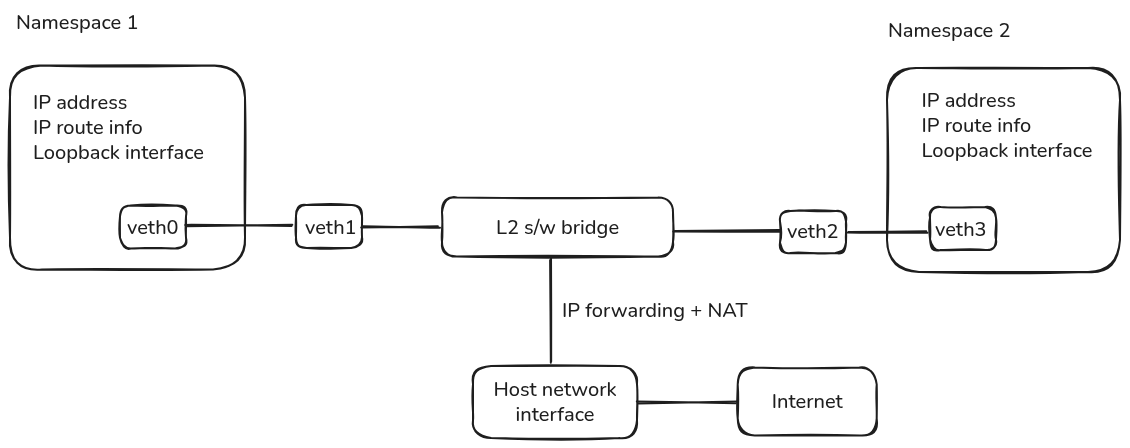
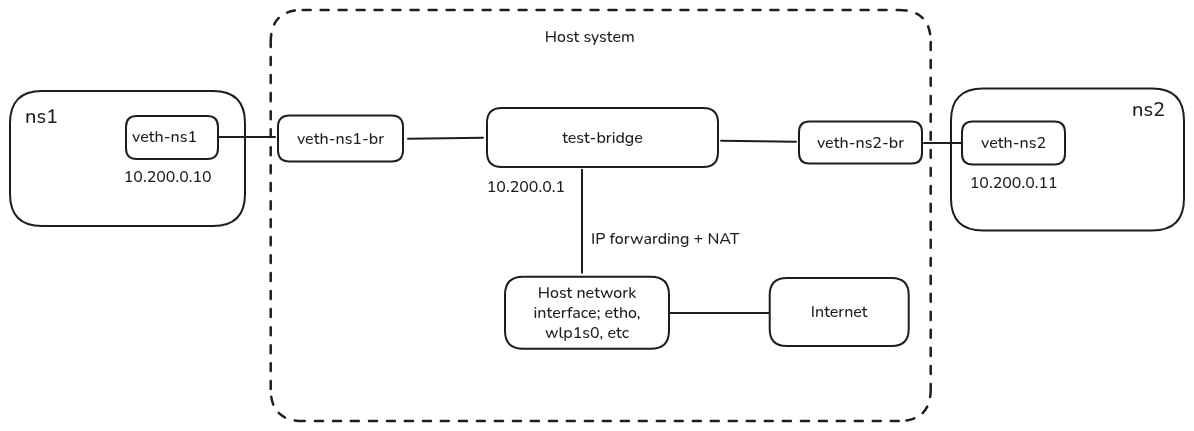
networking: final touches

diff --git a/README.md b/README.md
@@ -1,19 +1,21 @@
-## How Container Networking is Implemented in Linux
+# How Container Networking is Implemented in Linux
 
-The three building blocks:
+The four building blocks:
 
-- namespace: represents a single docker service
+- namespace: represents a single container's isolated network stack
 - virtual interface: represents a network link to a namespace
-- software bridge: an L2 software switch connecting two namespaces
+- software bridge: an L2 software switch connecting any number namespaces
 - routing and NAT: configures how the namespace accesses the internet through the host network interface
 
 The final architecture will look like this:
 
-![](/assets/network_namespaces.png)
+![](assets/network_namespaces.png)
 
-### Prerequisites
+## Prerequisites
 
-### Creating a namespace
+sudo, iproute2, iptables, conntrack, wget, a subnet your LAN doesn't use
+
+## Create a namespace
 
 List all namespaces on the machine:
 
@@ -27,13 +29,12 @@ Create 2 new namespaces
 ```bash
 
 sudo ip netns add ns1
-sudo ip netns add ns1
+sudo ip netns add ns2
 ```
 
-`ip netns exec` can be simplified into `ip -n`, going forward that is the syntax I will use.<br>
-Use the command to list namespaces to confirm they have been created.
+`ip netns exec` is too long to type every time. Going forward I will simplify it into `ip -n`. Another alternative is to start a bash shell inside the namespace with `ip netns exec ns1 bash`, same for ns2.<br>
 
-### Create a bridge
+## Create a bridge
 
 A bridge is a link device of type `bridge`. To create one:
 
@@ -56,7 +57,7 @@ Bring up the bridge:
 sudo ip link set test-bridge up
 ```
 
-### Create virtual interfaces
+## Create virtual interfaces
 
 Create 2 veth pairs. Each namespace has one virtual interface inside it, communicating with its peer in the host namespace. The virtual interfaces in the host namespace will be connected to the bridge.<br>
 Create the 4 virtual interfaces
@@ -101,7 +102,7 @@ sudo ip -n ns1 link set veth-ns1 up
 sudo ip -n ns1 route add default via 10.200.0.1
 
 sudo ip -n ns2 link set lo up
-sudo ip -n ns2 addr add 10.200.0.11/24 dev veth-ns1
+sudo ip -n ns2 addr add 10.200.0.11/24 dev veth-ns2
 sudo ip -n ns2 link set veth-ns2 up
 sudo ip -n ns2 route add default via 10.200.0.1
 ```
@@ -118,7 +119,7 @@ Add NAT for the subnet:
 
 ```bash
 
-sudo iptables -t nat -A POSTROUTING -s 192.168.100.0/24 ! -o test-bridge -j MASQUERADE
+sudo iptables -t nat -A POSTROUTING -s 10.200.0.0/24 ! -o test-bridge -j MASQUERADE
 ```
 
 At this point I want to test connectivity to the internet but I need to do a few checks before proceeing:
@@ -127,65 +128,71 @@ At this point I want to test connectivity to the internet but I need to do a few
 - is DNS working inside the namespaces?
 - is ufw active and what policy is it configured with?
 
-#### Configure IP forwarding
+### Configure IP forwarding
 
-The IP layer makes one of two decisions when a packet arrives at any of the network interfaces. If the destination IP address is the same as the host's address then it is addressed to the machine and it is delivered to the upper protocol layers. If the destination IP address is different from the host's then it either drops the packet or forwards it to the next hop. IP forwarding is the setting that controls this behaviour. By default, this IP forwarding is off for security reasons, meaning packets not addressed to the host are dropped. A host with IP forwarding on can pass traffic from a trusted to an untrusted network. Docker and K8s enable it because they need to route traffic. When IP forwarding is enabled it's recommended to accompany it with a `ufw` firewall policy that controls the traffic allowed.<br>
+The IP layer makes one of two decisions when a packet arrives at any of the network interfaces. If the destination IP address is the same as one of the host's address then it is addressed to the machine and it is delivered to the upper protocol layers. If the destination IP address doesn't match any of the host's addresses then it either drops the packet or forwards it to the next hop. IP forwarding is the setting that controls this behaviour. By default, this IP forwarding is off for security reasons, meaning packets not addressed to the host are dropped. A host with IP forwarding on can pass traffic from an untrusted source to a trusted network. Docker and K8s enable it because they need to route traffic. When IP forwarding is enabled it's recommended to accompany it with a `ufw` firewall policy that controls the traffic allowed.<br>
 To check the current IP forwarding configuration:
 
 ```bash
-sysctl net.ipv4.ip_forward # if it 0 it is disabled
+sysctl net.ipv4.ip_forward # 0 means it is disabled
 sudo sysctl -w net.ipv4.ip_forward=1 # enable it until the next reboot
 ```
 
-#### Configure firewall policy for forwarded packets
+### Configure firewall policy for forwarded packets
 
-Firewall config and management on Ubuntu and Debian systems is done using ufw(Uncomplcated Firewall). Check if the firewall is enabled:
+Firewall config and management on Ubuntu systems is done using ufw(Uncomplicated Firewall). Check if the firewall is enabled:
 
 ```bash
 sudo ufw status
 ```
 
-`Status: inactive` means ufw is not enabled so no further action is needed. Otherwise you have to enable it:
+`Status: inactive` means ufw is not enabled so no further action is needed. If it's active, allow forwarded traffic from the bridge:
 
 ```bash
 sudo ufw route allow in on test-bridge out on wlp1s0
+
+ip route show default # find your interface name
 ```
 
-Replace wlp1s0 with your interface name. The command translates to: "allowed routed traffic arriving in from test-bridge and going out through wlp1s0".<br>
+Replace wlp1s0 with your interface name. The command translates to: "allow routed traffic arriving in from test-bridge and going out through wlp1s0".<br>
 Replies come in the opposite direction, from wlp1s0 to test-bridge. These are covered by a separate built-in rule which accepts incoming forwarded packets that belong to a connection that is already being tracked.
 
-#### Configure DNS lookup inside the namespaces
+### Configure DNS lookup inside the namespaces
 
 DNS is the process of resolving an IP address from a name. On Linux, there are 2 ways a program can resolve a name. Most programs do this by calling glibc's `getaddrinfo()` which checks the `hosts` entry in `/etc/nsswitch.conf`. On my machine, the value of that entry is:
 
 ```
 hosts:          files mdns4_minimal [NOTFOUND=return] dns myhostname
 ```
-`files` checks the contents of /etc/hosts. `mds4_minimal` handles resolution for .local names, which are top level domain names announced by devices on the local network without the help of DNS. `dns` sends a DNS query to the servers listed in /etc/resolv.conf. `myhostname` resolves the machine's own hostname.<br>
+
+`files` checks the contents of /etc/hosts. `mdns4_minimal` handles resolution for .local names, which are top level domain names announced by devices on the local network without the help of DNS. `dns` sends a DNS query to the servers listed in /etc/resolv.conf. `myhostname` resolves the machine's own hostname.<br>
 The other approach is by using DNS tools which skip `nsswitch` and query the servers in /etc/resolv.conf.<br>
 A process running in ns1 or ns2 that needs to resolve a name reads /etc/resolv.conf, on my machine the contents are: `nameserver 127.0.0.53`. The server listening on that address is systemd-resolved.<br>
 But you have to remember that a namespace isolates an entire network stack, the network interfaces(loopback included), ip addresses, routing information, etc. The host has its own network stack, so does ns1 and ns2. Therefore, when a process in ns1 makes a request on 127.0.0.53 nothing is listening on that address, because ns1's loopback interface is different from the host's, on which systemd-resolved is listening.<br>
 To fix this, I will configure the DNS server for ns1 and ns2 under /etc/netns/ns1/ and /etc/netns/ns2/.
+
 ```bash
 sudo mkdir -p /etc/netns/ns1
 echo 'nameserver 1.1.1.1' | sudo tee /etc/netns/ns1/resolv.conf
 
 sudo mkdir -p /etc/netns/ns2
-echo 'nameserver 1.1.1.1' | sudo tee /etc/netns/ns1/resolv.conf
+echo 'nameserver 1.1.1.1' | sudo tee /etc/netns/ns2/resolv.conf
 ```
+
+After running these commands, if you had a bash terminal created using `ip netns exec <ns> bash`, exit and start a new one for the change to take effect. Then to verify what the namespace actually sees use `sudo ip netns exec ns1 cat /etc/resolv.conf`
+
+### Test internet access
 
 Download content from a site on the internet from any of the namespaces
 
 ```bash
 
-sudo ip netns exec ns1 bash
-wget -O /dev/null https://hetzner.com
+sudo ip netns exec ns1 wget -O /dev/null https://hetzner.com
 ```
 
 ```bash
 
-sudo ip netns exec ns2 bash
-wget -O /dev/null https://hetzner.com
+sudo ip netns exec ns2 wget -O /dev/null https://hetzner.com
 ```
 
 Check the connection tracking stats for the namespaces and NAT
@@ -196,4 +203,14 @@ sudo conntrack -L -s 10.200.0.0/24
 sudo iptables -t nat -L POSTROUTING -n -v
 ```
 
-### Cleanup
+## Cleanup
+
+```bash
+
+sudo ip netns del ns1 && sudo ip netns del ns2   # destroys both veth pairs too
+sudo ip link del test-bridge
+sudo iptables -t nat -D POSTROUTING -s 10.200.0.0/24 ! -o test-bridge -j MASQUERADE
+sudo ufw route delete allow in on test-bridge out on wlp1s0
+sudo rm -rf /etc/netns/ns1 /etc/netns/ns2
+sudo sysctl -w net.ipv4.ip_forward=0
+```
